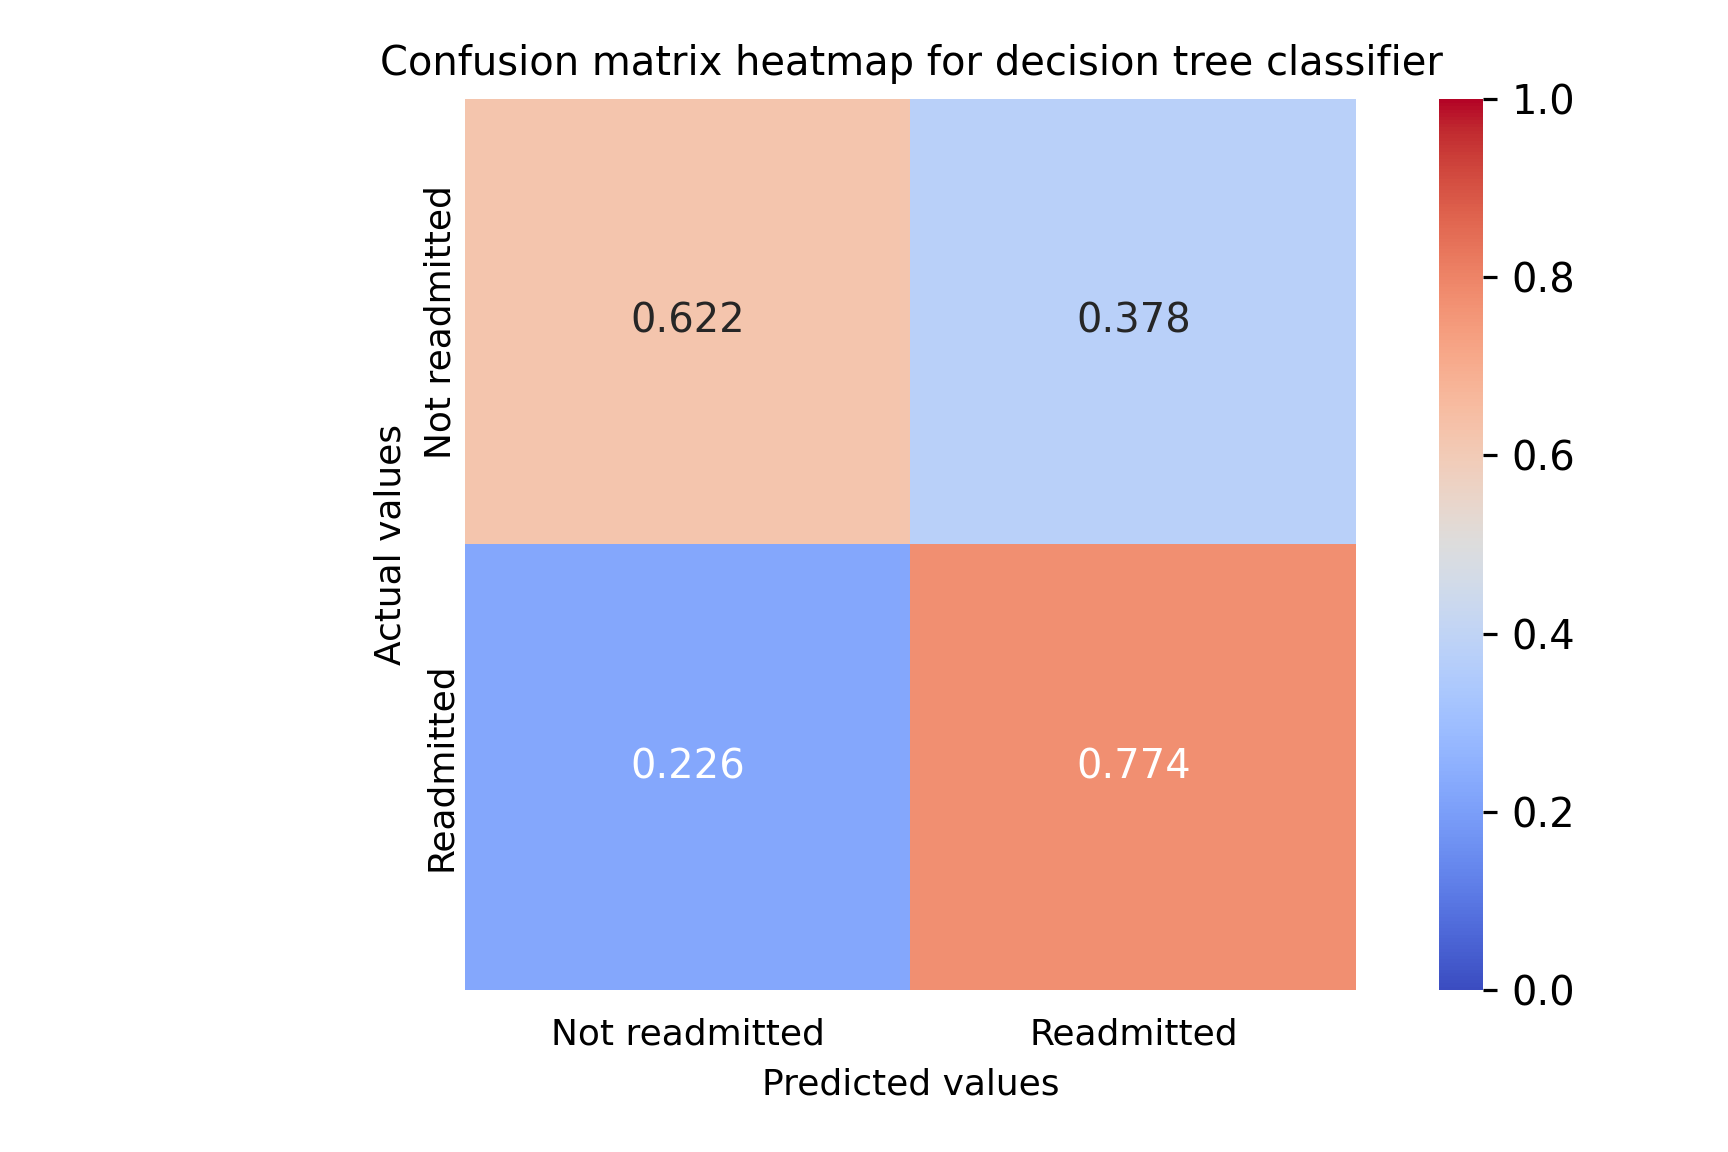
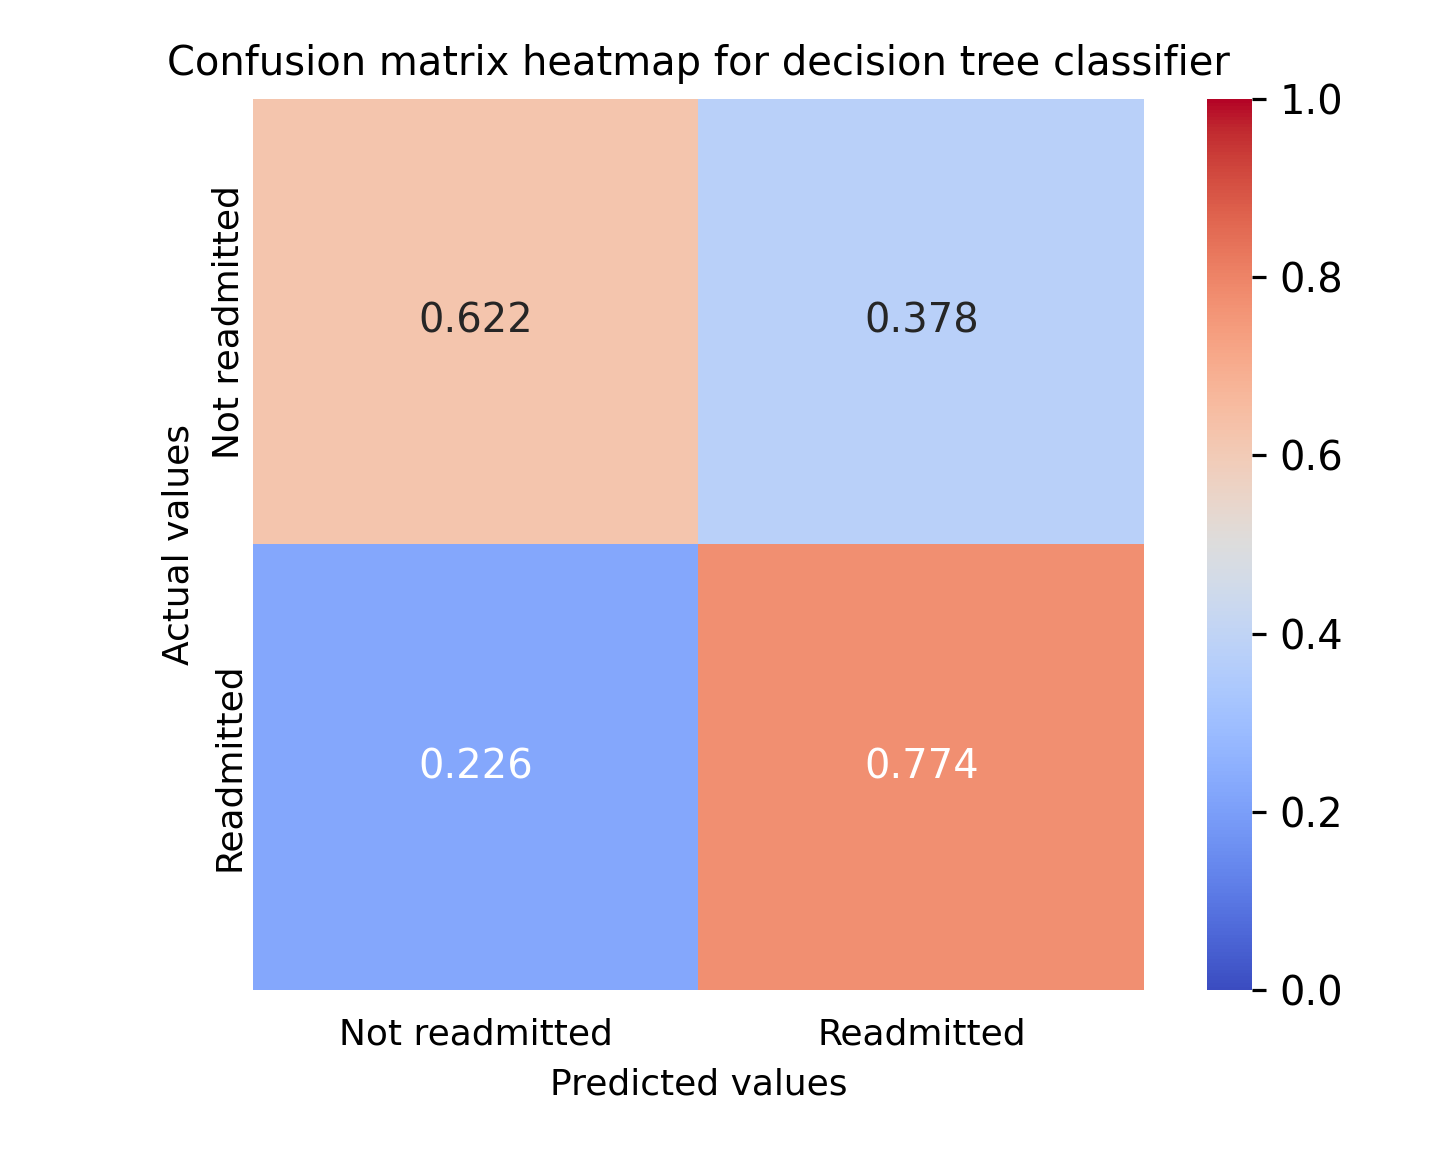
Changed figure size to (5, 4)

diff --git a/helper_funcs/helper_plots.py b/helper_funcs/helper_plots.py
@@ -8,7 +8,7 @@ from pathlib import PurePath
 def conf_mx_heat_plot(conf_mx, model_name, plot_dir):
     row_sums = conf_mx.sum(axis=1, keepdims=True)
     norm_conf_mx = conf_mx/row_sums
-    fig, ax = plt.subplots(1, 1, figsize=(6, 4))
+    fig, ax = plt.subplots(1, 1, figsize=(5, 4))
     sns.heatmap(norm_conf_mx, cmap=plt.cm.coolwarm, ax=ax, square=True, vmin=0, vmax=1,
                 xticklabels=['Not readmitted', 'Readmitted'],
                 yticklabels=['Not readmitted', 'Readmitted'],
